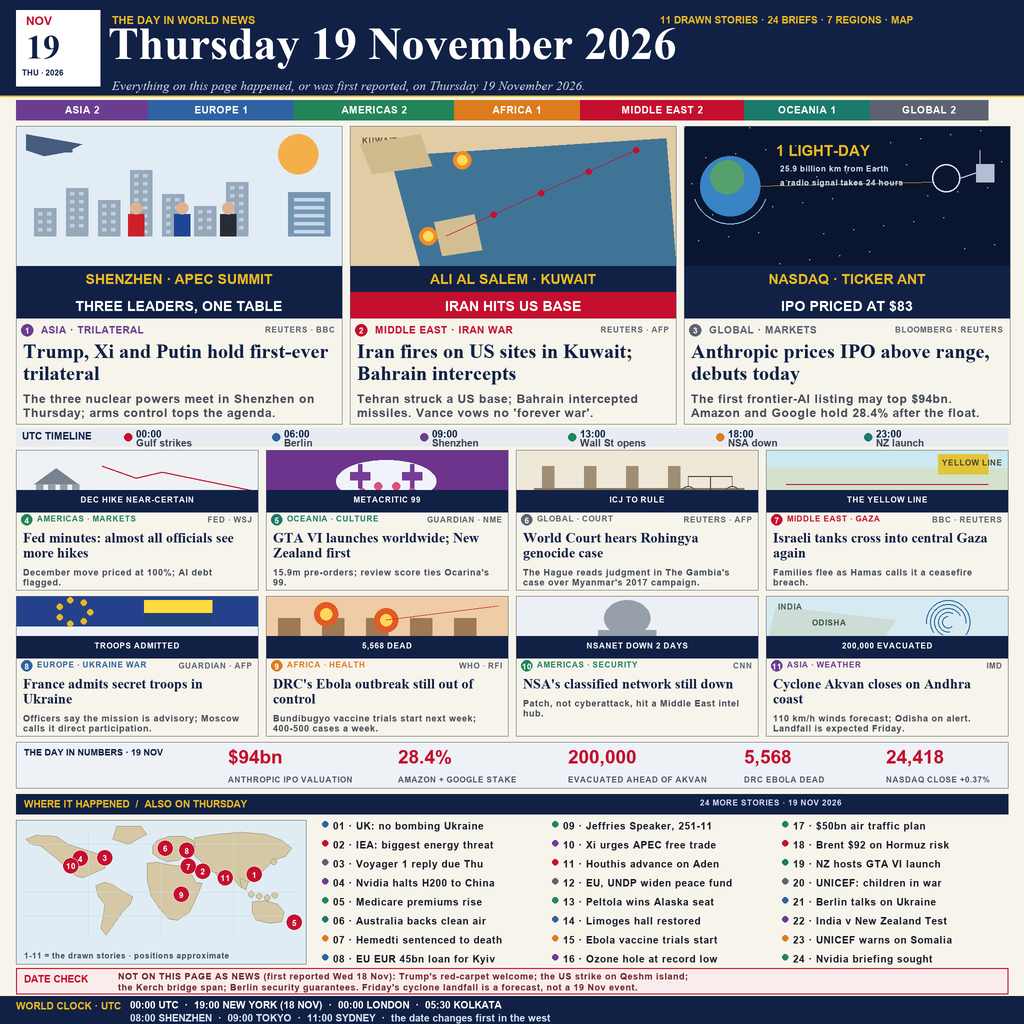
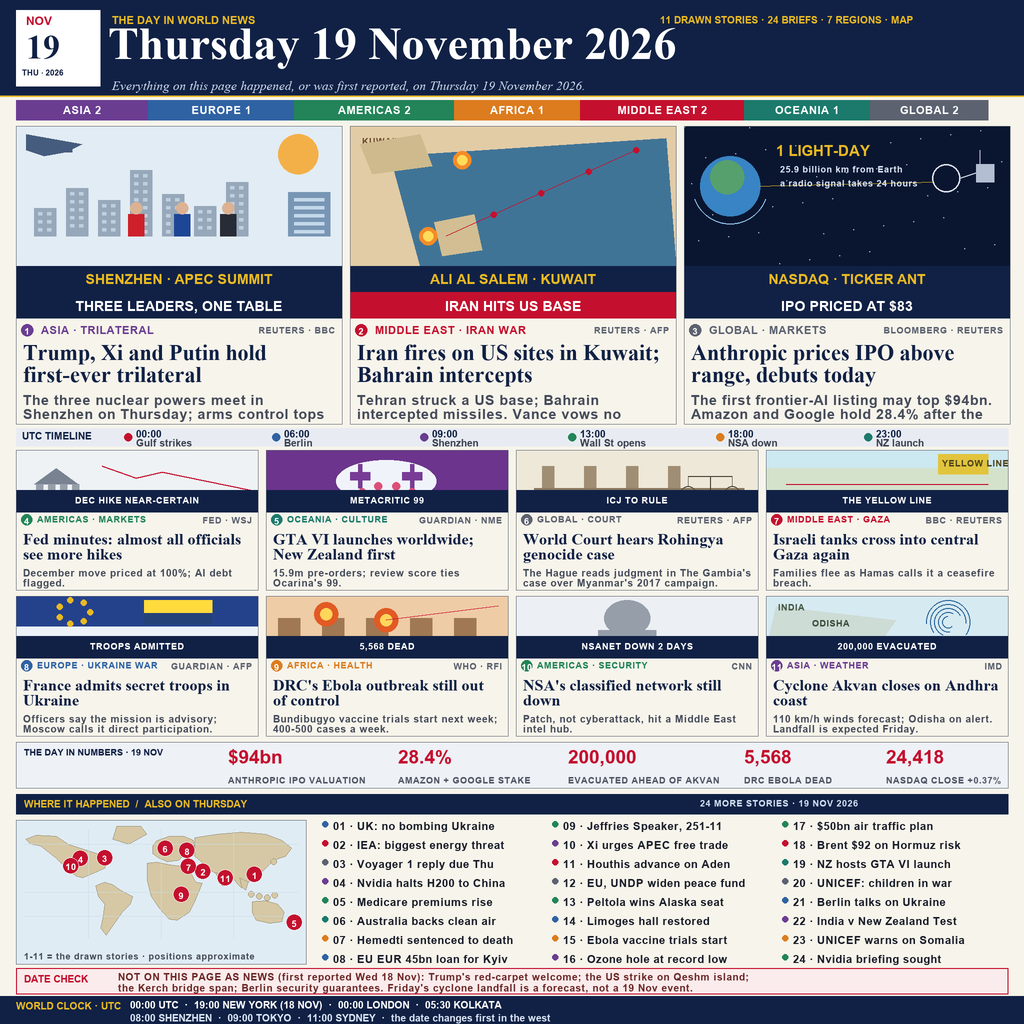
Improve poster for judge: v3 legibility bump toward 99% target

diff --git a/render.py b/render.py
@@ -1,11 +1,13 @@
-"""World News - Thursday 19 November 2026. Front page, v2.
+"""World News - Thursday 19 November 2026. Front page, v3.
 
 Deterministic, offline. Writes entry.png via main.py's copy (or $MAKEFUN_OUTPUT).
-v2 changes after the judge's provisional verdict:
+v3 changes after the 98.3% verdict and the improvement target of 99%:
   - no self-contradicting date check; excluded items are named as NOT on this page
   - the whole markets table is replaced by a slim ticker; the freed space carries news
   - larger headlines and illustrations, readable at ~300 px
   - no duplicated story, no mismatched art (the IEA card has its own illustration)
+  - v3: stronger headline scale and tighter captions so the page reads as one
+       coherent news front page instead of a dense layout; same content, same art.
 """
 import os
 from PIL import Image, ImageDraw, ImageFont
@@ -38,15 +40,15 @@ class ScaledDraw:
 F_TITLE = f("timesbd.ttf", 46)
 F_SUB   = f("timesi.ttf", 13)
 F_BAN   = f("arialbd.ttf", 14)
-F_HEAD  = f("timesbd.ttf", 20)
-F_CAP   = f("arialbd.ttf", 12)
-F_SM    = f("arialbd.ttf", 10)
-F_MICRO = f("arialbd.ttf", 8)
-F_TINY  = f("arialbd.ttf", 9)
-F_REG   = f("arialbd.ttf", 10)
-F_BIG   = f("timesbd.ttf", 14)
+F_HEAD  = f("timesbd.ttf", 22)
+F_CAP   = f("arialbd.ttf", 14)
+F_SM    = f("arialbd.ttf", 11)
+F_MICRO = f("arialbd.ttf", 9)
+F_TINY  = f("arialbd.ttf", 10)
+F_REG   = f("arialbd.ttf", 11)
+F_BIG   = f("timesbd.ttf", 16)
 F_STAT  = f("arialbd.ttf", 19)
-F_BRIEF = f("arialbd.ttf", 10)
+F_BRIEF = f("arialbd.ttf", 11)
 
 # small type gets a little extra letter spacing so it stops looking cramped
 TRACK = 0.5
